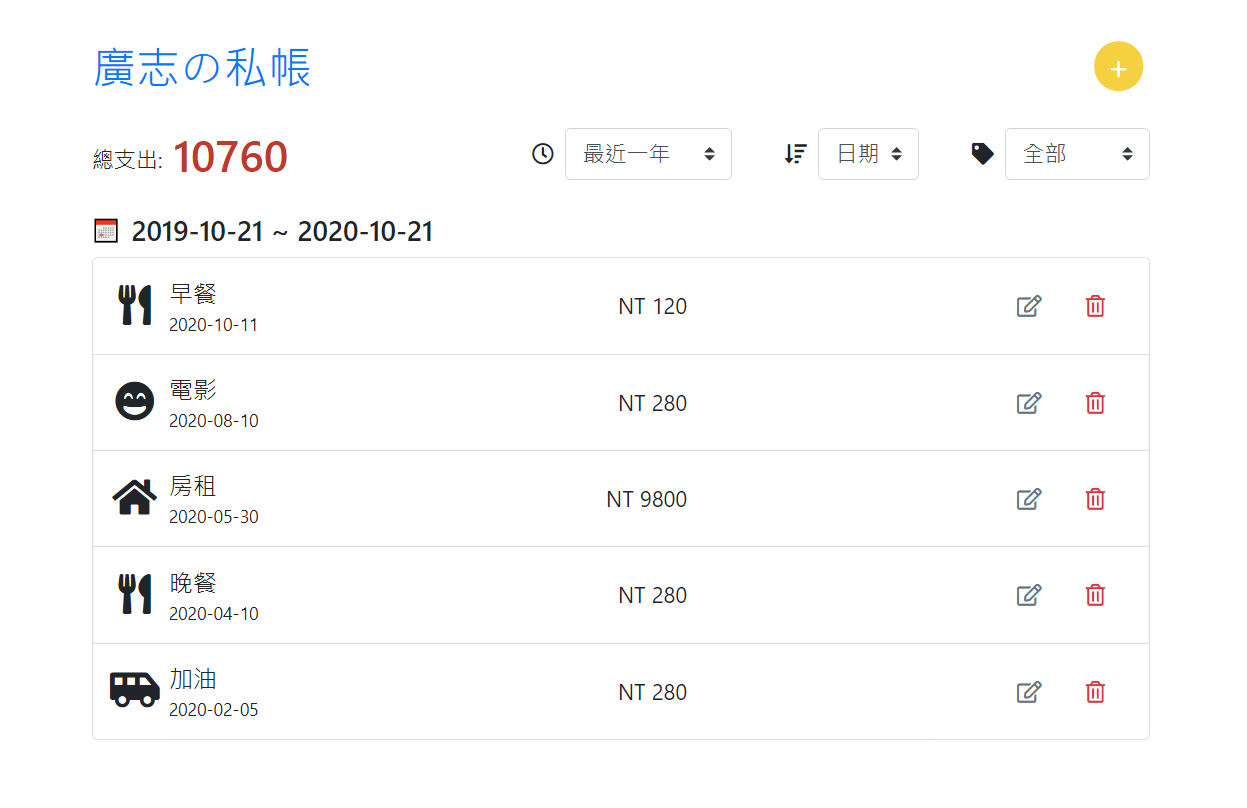
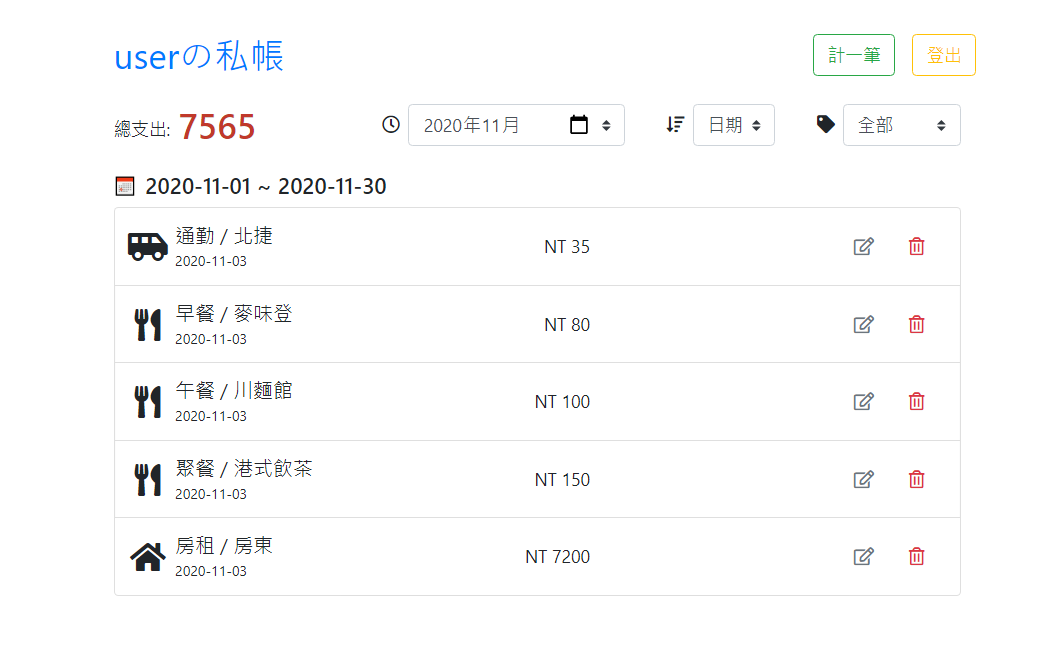
modify README.md

diff --git a/README.md b/README.md
@@ -1,23 +1,33 @@
 ## Expense Tracker
+
 An expense tracker app that can manage your wallet.
 
 ### Main Page
+
 ![](https://raw.githubusercontent.com/elliottwuTW/expense-tracker-app/master/project_picture.png)
 
 ### Features
+
 User can
+
+- register an account with an email only
+- login with email and password
+- login with facebook accounts
+- logout accounts
 - view the matched expenses corresponding to the filter setting
 - see the duration of expense records
-- filter the expense records by setting time, tag, or sort ways
+- filter the expense records by setting year/month, tag, or sort ways
 - create a new expense record
 - update a specific expense record information
 - delete a specific expense record
 - keep their filter setting after returning to the main page
 
 ### Demo
-[廣志の私帳](https://salty-mountain-97514.herokuapp.com/)
+
+[廣志の私帳](https://ac-expense-tracker.herokuapp.com/)
 
 ### Quick Start
+
 ```
 # Create a project folder to start
 mkdir <project-folder>
@@ -37,23 +47,22 @@ npm run start
 
 # Or run the server with nodemon
 npm run dev
-
-# As the server starts successfully, the terminal will show "The server is running on http://localhost:3000" or "The server is running on https://salty-mountain-97514.herokuapp.com" depending on the runtime.
 ```
 
 ### Package Versions
+
 - Node.js : 14.4.0
 - express : 4.17.1
 - express-handlebars : 5.1.0
-- body-parser : 1.19.0
 - mongoose : 5.10.9
-- method-override : 3.0.0
-- cookie-parser : 1.4.5
-
+- passport : 0.4.1
 
 ### App Info
+
 #### Author
+
 Elliott Wu [elliottwuTW](https://github.com/elliottwuTW)
 
 #### Version
-1.0.0
+
+1.1.0
